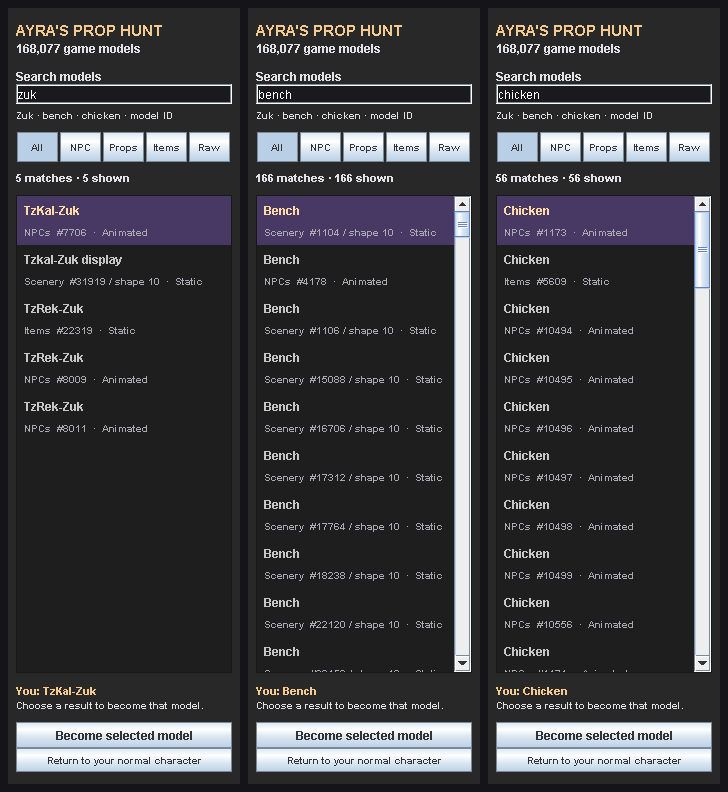
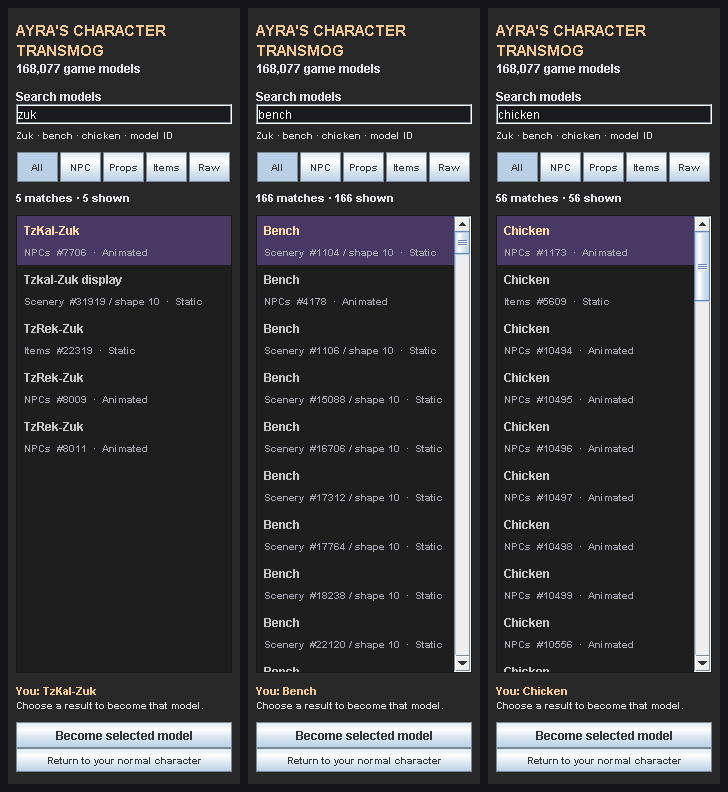
Name the plugin Ayras Character Transmog and clarify its purpose

diff --git a/src/main/java/com/ayrasprophunt/AyrasPropHuntPlugin.java b/src/main/java/com/ayrasprophunt/AyrasPropHuntPlugin.java
@@ -47,8 +47,8 @@ import org.slf4j.Logger;
 import org.slf4j.LoggerFactory;
 
 @PluginDescriptor(
-	name = "Ayra's Prop Hunt",
-	description = "Become any catalogued NPC, scenery object, item, or model with a searchable picker",
+	name = "Ayra's Character Transmog",
+	description = "Character model transmog with searchable NPCs, scenery, items, and raw meshes",
 	tags = {"prop", "model", "cosmetic", "transmog", "search", "party"}
 )
 public class AyrasPropHuntPlugin extends Plugin
@@ -303,7 +303,7 @@ public class AyrasPropHuntPlugin extends Plugin
 		}
 		catch (IllegalStateException ex)
 		{
-			/* A disconnected party never prevents local Ayra's Prop Hunt. */
+			/* A disconnected party never prevents the local character transmog. */
 		}
 	}
 

diff --git a/src/main/java/com/ayrasprophunt/AyrasPropHuntConfig.java b/src/main/java/com/ayrasprophunt/AyrasPropHuntConfig.java
@@ -9,7 +9,7 @@ import net.runelite.client.config.ConfigItem;
 public interface AyrasPropHuntConfig extends Config
 {
 	String GROUP = "ayrasprophunt";
-	@ConfigItem(keyName = "model", name = "Selected model", description = "Choose a model in the Prop Hunt sidebar.", hidden = true)
+	@ConfigItem(keyName = "model", name = "Selected model", description = "Choose your character model in the Character Transmog sidebar.", hidden = true)
 	default String modelKey() { return ModelCatalog.DEFAULT_KEY; }
 	@ConfigItem(keyName = "shareAppearance", name = "Share with party", description = "Share your chosen prop and in-game name with your current RuneLite Party.", position = 1)
 	default boolean shareAppearance() { return false; }

diff --git a/src/main/java/com/ayrasprophunt/PropHuntUi.java b/src/main/java/com/ayrasprophunt/PropHuntUi.java
@@ -26,7 +26,7 @@ class PropHuntUi
 		{
 			if (token != generation) { return; }
 			panel = new ModelPickerPanel(catalog, entry -> configs.setConfiguration(AyrasPropHuntConfig.GROUP, "model", entry == null ? "NONE" : entry.key), current);
-			navigation = NavigationButton.builder().tooltip("Ayra's Prop Hunt")
+			navigation = NavigationButton.builder().tooltip("Ayra's Character Transmog")
 				.icon(icon()).panel(panel).priority(8).build();
 			toolbar.addNavigation(navigation);
 		});

diff --git a/src/main/java/com/ayrasprophunt/ModelPickerPanel.java b/src/main/java/com/ayrasprophunt/ModelPickerPanel.java
@@ -68,7 +68,7 @@ public final class ModelPickerPanel extends PluginPanel
 		JPanel header = new JPanel();
 		header.setOpaque(false);
 		header.setLayout(new BoxLayout(header, BoxLayout.Y_AXIS));
-		JLabel title = new JLabel("AYRA'S PROP HUNT");
+		JLabel title = new JLabel("<html>AYRA'S CHARACTER<br>TRANSMOG</html>");
 		title.setForeground(new Color(245, 202, 145));
 		title.setFont(title.getFont().deriveFont(Font.BOLD, 15f));
 		header.add(title);

diff --git a/src/main/java/com/ayrasprophunt/ModelCatalog.java b/src/main/java/com/ayrasprophunt/ModelCatalog.java
@@ -43,7 +43,7 @@ public final class ModelCatalog
 				if (in.read() != -1) { throw new IOException("Trailing model catalog data"); }
 			}
 		}
-		catch (IOException ex) { throw new IllegalStateException("Cannot load Prop Hunt's model catalog", ex); }
+		catch (IOException ex) { throw new IllegalStateException("Cannot load the character transmog model catalog", ex); }
 	}
 
 	public ModelEntry get(String key) { return byKey.get(key); }

diff --git a/README.md b/README.md
@@ -1,16 +1,17 @@
 <!-- Copyright (c) 2026, Drew. SPDX-License-Identifier: BSD-2-Clause -->
-# Ayra's Prop Hunt
+# Ayra's Character Transmog
 
 Just a fun little mod for people who got that dog in them.
 
-Become Zuk, a bench, a chicken, or any other model in the bundled game catalog.
-This is a cosmetic character replacement with optional RuneLite Party sharing.
+Transmog your character into Zuk, a bench, a chicken, or another model in the
+searchable game catalog. This is a cosmetic character model replacement with
+optional RuneLite Party sharing. Previously named **Ayra's Prop Hunt**.
 
 ![Actual searchable sidebar](docs/model-picker.png)
 
 ## Pick a model
 
-1. Enable **Ayra's Prop Hunt** and click its **box icon** in RuneLite's sidebar.
+1. Enable **Ayra's Character Transmog** and click its **box icon** in RuneLite's sidebar.
 2. Type a name such as `Zuk`, `bench`, or `chicken` into **Search models**.
 3. Choose a result and click **Become selected model**, double-click it, or press Enter.
 
@@ -60,7 +61,7 @@ New game models require a regenerated metadata snapshot.
 ## Party appearances
 
 Everyone must use **this version**, enable RuneLite's **Party** plugin, and join
-the same party passphrase. In Prop Hunt settings, turn on **Share with party**;
+the same party passphrase. In Character Transmog settings, turn on **Share with party**;
 sharing defaults to off. **Show party props** controls whether you see other
 opted-in members' selected models. Non-users stay human. No party is joined or
 changed automatically, and there is no global appearance relay.
@@ -84,12 +85,12 @@ Requires a JDK 11 or newer; tested with JDK 17.
 .\gradlew.bat test release
 ```
 
-The release is `ayras-prop-hunt-2.0.1.jar`. Close your developer client and run
+The release is `ayras-prop-hunt-2.0.2.jar`. Close your developer client and run
 `.\tools\Install-PropHunt.ps1` to install it and disable older Dog Mode/Doggies builds.
-Restart RuneLite, enable **Ayra's Prop Hunt**, and open the box sidebar icon.
+Restart RuneLite, enable **Ayra's Character Transmog**, and open the box sidebar icon.
 The stock RuneLite launcher does not load sideloaded JARs.
 
-For source development, temporarily disable the installed Prop Hunt JAR to avoid
+For source development, temporarily disable the installed transmog JAR to avoid
 loading the same plugin twice, then use `.\gradlew.bat run`.
 
 `.\gradlew.bat preview` renders the actual searchable sidebar offline. Tests cover

diff --git a/SUBMISSION.md b/SUBMISSION.md
@@ -1,13 +1,13 @@
 <!-- Copyright (c) 2026, Drew. SPDX-License-Identifier: BSD-2-Clause -->
-# Plugin Hub review notes: Ayra's Prop Hunt
+# Plugin Hub review notes: Ayra's Character Transmog
 
 **Status:** RuneLite [closed and locked the original Doggies submission](https://github.com/runelite/plugin-hub/pull/21351#issuecomment-7178531985)
 under the rule against significant in-game content/asset changes. This broader
-Prop Hunt build is provided for developer sideloading. There is no active Hub
+character transmog build is provided for developer sideloading. There is no active Hub
 submission or claim of RuneLite/Jagex approval for this version.
 
-This submission has expanded from Doggies into a searchable cosmetic model picker.
-The display name is **Ayra's Prop Hunt**. It does not implement competitive hide-and-seek
+The plugin provides a searchable cosmetic character model transmog.
+The display name is **Ayra's Character Transmog**. It does not implement competitive hide-and-seek
 rounds, NPC attack prediction, targeting assistance, or gameplay automation.
 
 ## Model selection
